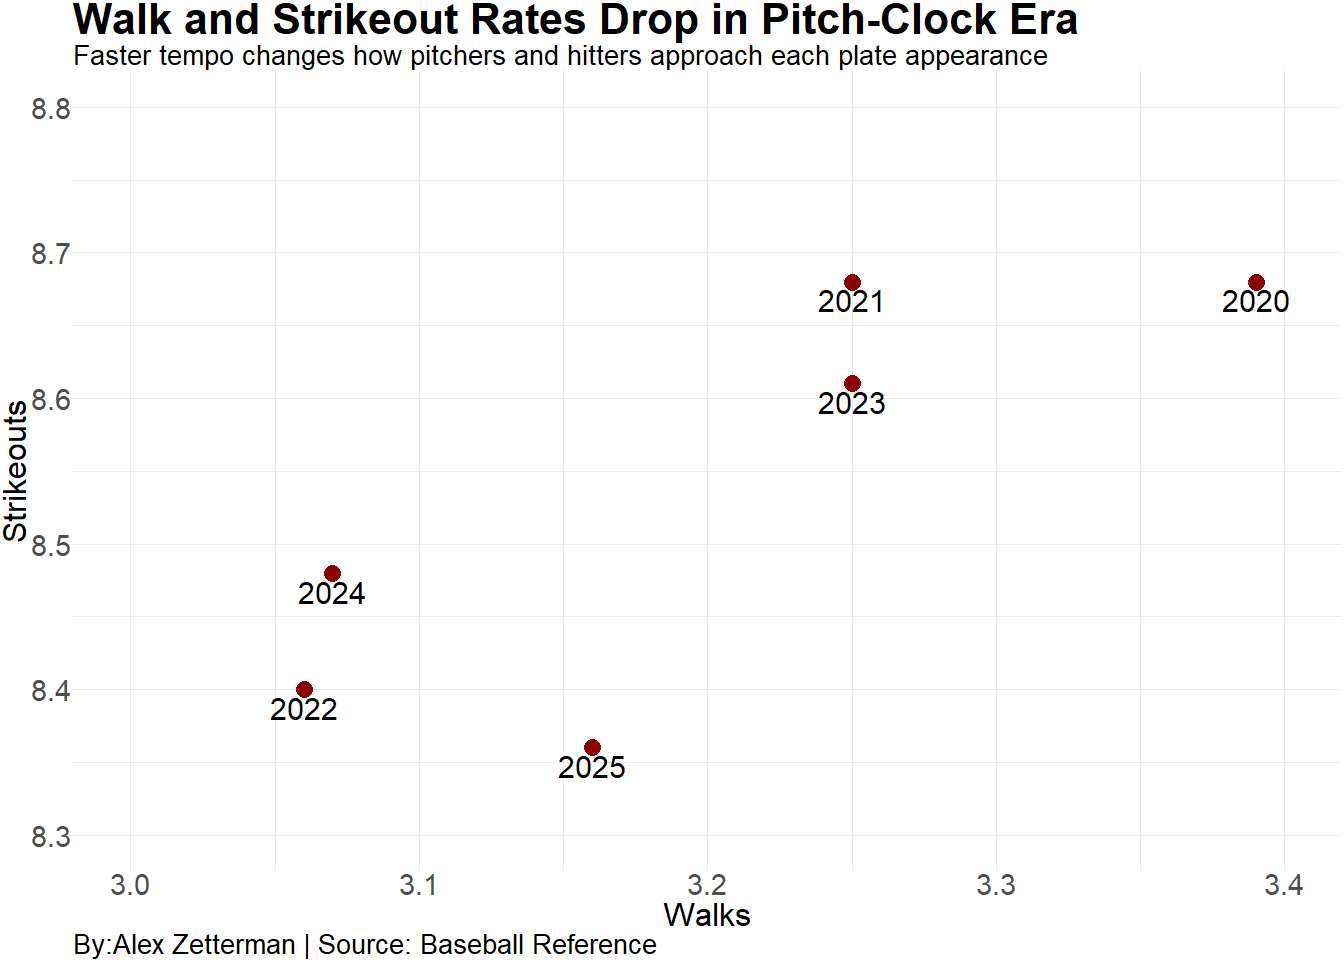
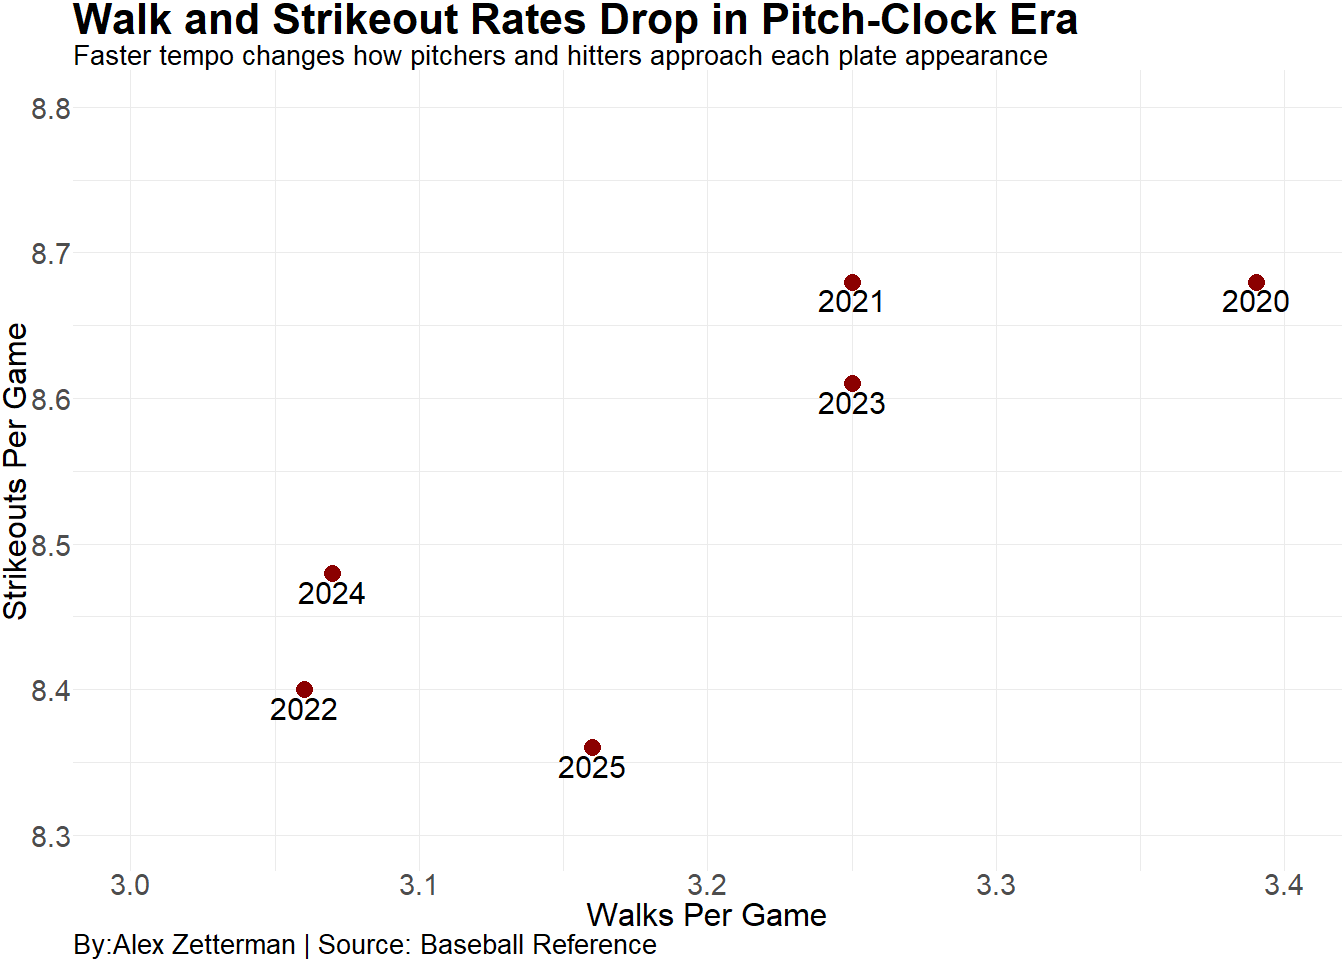
edit

Changed region(s): [[0.0, 0.3438, 0.0312, 0.6562], [0.4375, 0.9375, 0.625, 0.9688]]

diff --git a/posts/MLB-Pitch-Clock/index.html b/posts/MLB-Pitch-Clock/index.html
@@ -491,8 +491,8 @@ pre > code.sourceCode > span > a:first-child::before { text-decoration: underlin
 <span id="cb3-16"><a href="#cb3-16" aria-hidden="true" tabindex="-1"></a>    <span class="at">title =</span> <span class="st">"Walk and Strikeout Rates Drop in Pitch-Clock Era"</span>,</span>
 <span id="cb3-17"><a href="#cb3-17" aria-hidden="true" tabindex="-1"></a>    <span class="at">subtitle =</span> <span class="st">"Faster tempo changes how pitchers and hitters approach each plate appearance"</span>,</span>
 <span id="cb3-18"><a href="#cb3-18" aria-hidden="true" tabindex="-1"></a>    <span class="at">caption =</span>  <span class="st">"By:Alex Zetterman | Source: Baseball Reference"</span>,</span>
-<span id="cb3-19"><a href="#cb3-19" aria-hidden="true" tabindex="-1"></a>    <span class="at">x =</span> <span class="st">"Walks"</span>,</span>
-<span id="cb3-20"><a href="#cb3-20" aria-hidden="true" tabindex="-1"></a>    <span class="at">y =</span> <span class="st">"Strikeouts"</span></span>
+<span id="cb3-19"><a href="#cb3-19" aria-hidden="true" tabindex="-1"></a>    <span class="at">x =</span> <span class="st">"Walks Per Game"</span>,</span>
+<span id="cb3-20"><a href="#cb3-20" aria-hidden="true" tabindex="-1"></a>    <span class="at">y =</span> <span class="st">"Strikeouts Per Game"</span></span>
 <span id="cb3-21"><a href="#cb3-21" aria-hidden="true" tabindex="-1"></a>  ) <span class="sc">+</span></span>
 <span id="cb3-22"><a href="#cb3-22" aria-hidden="true" tabindex="-1"></a>  </span>
 <span id="cb3-23"><a href="#cb3-23" aria-hidden="true" tabindex="-1"></a>  <span class="fu">theme_minimal</span>(<span class="at">base_size =</span> <span class="dv">1</span>) <span class="sc">+</span></span>

diff --git a/index.html b/index.html
@@ -378,7 +378,7 @@ window.Quarto = {
 
 <div class="quarto-listing quarto-listing-container-default" id="listing-listing">
 <div class="list quarto-listing-default">
-<div class="quarto-post image-right" data-index="0" data-categories="TUxC" data-listing-date-sort="1762927200000" data-listing-file-modified-sort="1763079852417" data-listing-date-modified-sort="NaN" data-listing-reading-time-sort="8" data-listing-word-count-sort="1446">
+<div class="quarto-post image-right" data-index="0" data-categories="TUxC" data-listing-date-sort="1762927200000" data-listing-file-modified-sort="1763330255133" data-listing-date-modified-sort="NaN" data-listing-reading-time-sort="8" data-listing-word-count-sort="1450">
 <div class="thumbnail"><a href="./posts/MLB-Pitch-Clock/index.html" class="no-external">
 
 <img loading="lazy" src="./posts/MLB-Pitch-Clock/image.png" class="thumbnail-image">
